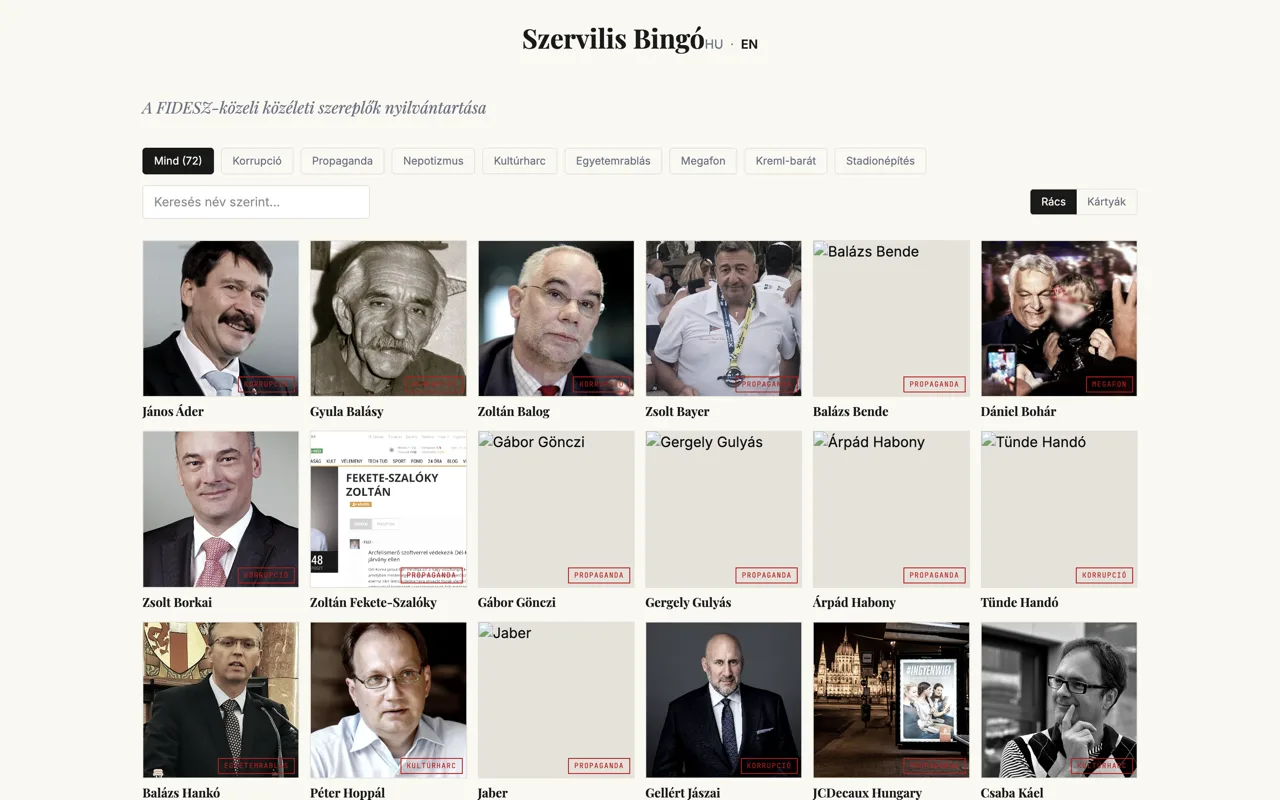
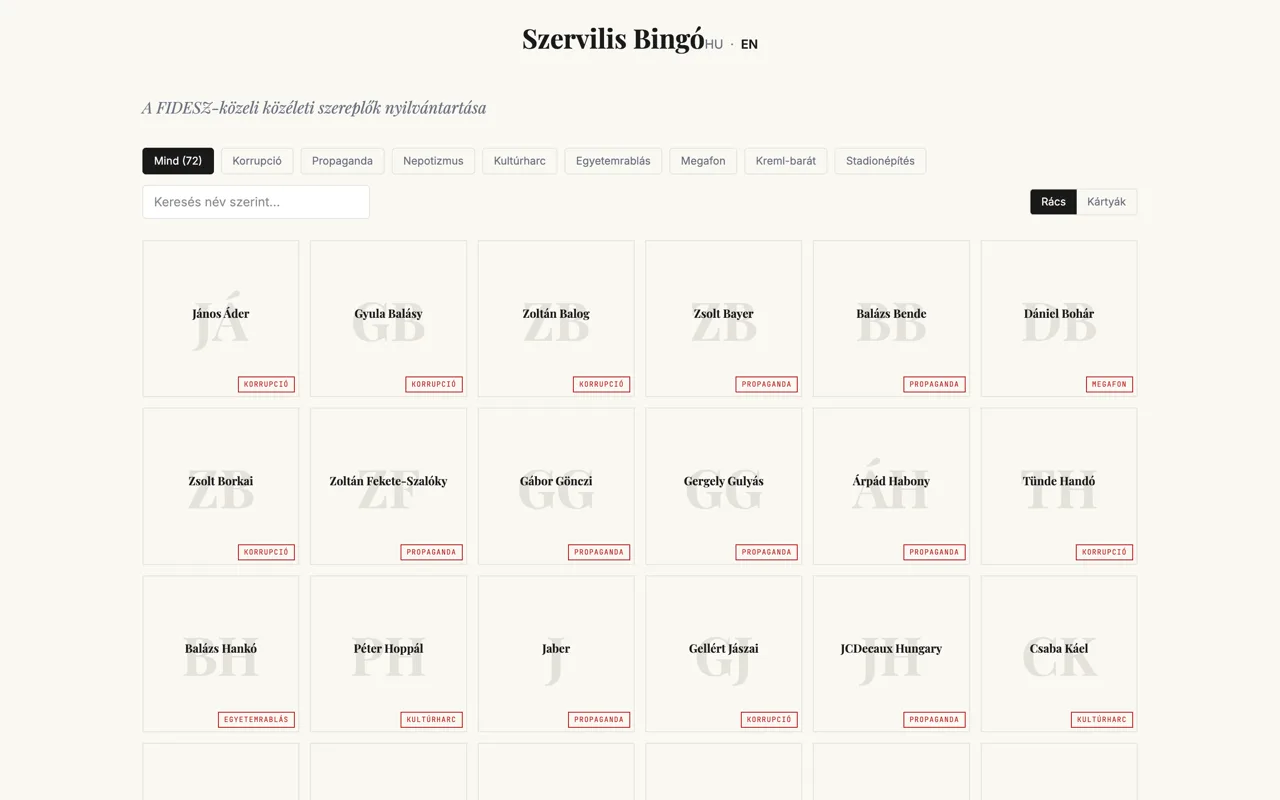
Re-shoot Szervilis Bingó, and say why it has no photographs
The register dropped its photographs because too many were of the wrong
person. The entry said thirty still needed one, which is no longer the
point.

Claude-Session: https://claude.ai/code/session_01Aqw8DEncNozu5hH3bvwFR6

diff --git a/things.html b/things.html
@@ -152,7 +152,7 @@
                         <h3>Szervilis Bingó</h3>
                         <p>A public register of people who made themselves useful to FIDESZ, and what it cost the rest of us. Seventy-two entries, each tagged by what they did — corruption, propaganda, nepotism, culture war, stadium building — and searchable by name.</p>
                         <p>It is played as a bingo card because the pattern is the point: once you have seen the same handful of names appear behind the same handful of decisions, the card fills itself. The tone is light. The sourcing is not.</p>
-                        <p>Hungarian and English. Roughly thirty of the seventy-two still need a photograph.</p>
+                        <p>No photographs. Too many of the ones it started with were of the wrong person, and on a register that names people and states what they did, a misattributed face is the one mistake you cannot leave standing.</p>
                         <figure class="entry-preview is-site">
                             <a href="https://szervilisbingo.app.jazzrabbit.eu" target="_blank" rel="noopener noreferrer">
                                 <div class="preview-frame">
